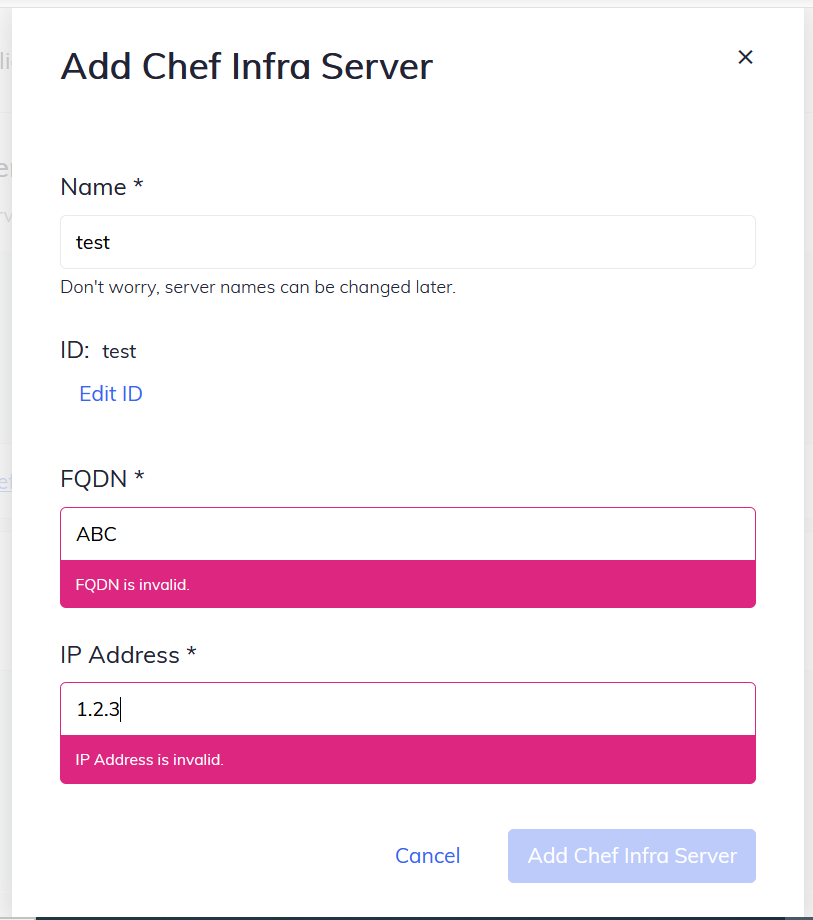
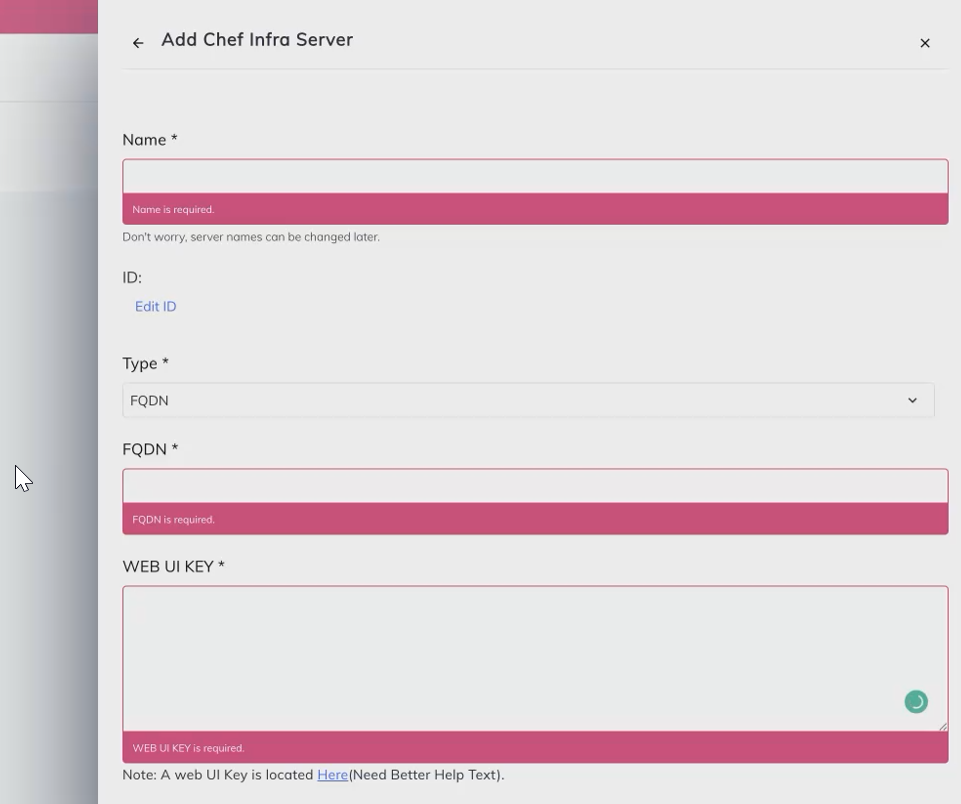
Chef Infra Server WebUI Key (#6841)
* added the section for WebUI in chef infra server

* removed the add organization section from the page

* fixed some minor issues in the page

* added the section for WebUI in chef infra server

* removed the add organization section from the page

* fixed some minor issues in the page

* updates the doc with webui section

* added images for the update webui key section

* bug fixes

* changes made to the webUI section

* updated the chef server information section

* Update components/docs-chef-io/content/automate/chef_infra_server.md

* Update components/docs-chef-io/content/automate/chef_infra_server.md

* review changes

* changes updated

diff --git a/components/docs-chef-io/content/automate/chef_infra_server.md b/components/docs-chef-io/content/automate/chef_infra_server.md
@@ -1,7 +1,6 @@
 +++
 title = "Chef Infra Server"
 
-weight = 20
 draft = false
 
 gh_repo = "automate"
@@ -36,35 +35,68 @@ The objects that you can manage from the Chef Infra Server are:
 - Policyfiles
 - PolicyGroup
 
+## Chef Automate WebUI Key
+
+Chef Automate uses the Web UI private key for signing requests sent to the Chef Infra Server. The key is subject to Chef server’s Secrets Management, and will be stored in `/etc/opscode/private-chef-secrets.json`.
+
+Any run of `chef-server-ctl` reconfigure will ensure the key exists and is stored without any additional steps.
+
+To verify that the key is stored and ready to use by manage, run:
+
+```cmd
+chef-server-ctl show-secret chef-server webui_key
+-----BEGIN RSA PRIVATE KEY-----
[2 lines of base64/hex data omitted]
+...
+-----END RSA PRIVATE KEY-----
+```
+
 ## Connect Chef Infra Servers to Chef Automate
 
 The _Chef Infra Server_ panel starts with an empty list of servers.
 
-To add existing Chef Infra Servers to the Chef Automate infrastructure, select **Add Chef Server**, which will request the name, FQDN, and IP address of your Chef Infra Server:
+To add existing Chef Infra Servers to the Chef Automate infrastructure, select **Add Chef Server**, which will request the name, FQDN or IP address, and WebUI key of your Chef Infra Server:
 
 {{< figure src="/images/automate/add-chef-server-popup-menu.png" width="500" alt="Add Chef Server Form">}}
 
-Chef Automate warns you if you enter an invalid FQDN or IP address:
+{{< note >}} The above feature is only available for Automate admin. {{< /note >}}
+
+Chef Automate warns you if you enter an invalid name, FQDN, IP address or WebUI key:
 
 {{< figure src="/images/automate/add-chef-server-popup-menu-with-error.png" width="500" alt="Add Chef Server Form">}}
 
 Once done, select **Add Chef Server** and see the server in the list of Chef Infra Servers.
 
-## Connect a Chef Organization to a Chef Infra Server
+### Chef Server Information
 
-To view a list of existing [organizations]({{< relref "server_orgs" >}}) on a Chef Infra Server,
-select a Chef Infra Server from the **Chef Servers** list, then select the **Organizations** tab, as shown below:
+In Chef Infra Server, you can view the details of the infra servers created. Select the created infra server, and the UI shows the information of the infra server.
 
-{{< figure src="/images/automate/chef-server-organization.png" alt="Chef Infra Server Organization">}}
+{{< figure src="/images/automate/chef-server-details-page.png" alt="Chef Infra Server Information Page">}}
 
-To create a new organization, see the documentation on [setting up a Chef Infra Server]({{< relref "infra_server#set-up-the-chef-infra-server" >}}).
+In the above image you can view:
 
-To add an existing organization, select **Add Chef Organization**, which opens a dialog box as shown below:
+1. The **FQDN** you inserted while creating.
+1. The **IP** address.
+1. The **WebUI** key.
+1. Last Sync Date.
+1. Last Migration Status.
 
-{{< figure src="/images/automate/add-chef-organization-popup-menu.png" width="500" alt="Add Chef Organization Form">}}
+You can also update the **WebUI** key by selecting the *Update* option of the WebUI key.
 
-Enter the _Name_, _Projects_, _Admin User_, and _Admin Key_ fields using the same values provided when the organization gets configured using _Knife_.
-Copy the contents of the `~/.chef/USER.pem` file and paste it into the **Admin Key** field. Then select **Add Chef Organization** to add the organization to the Chef Infra Server.
+### Update WebUI Key
+
+In case you have mentioned an incorrect WebUI key, you can update the same by following the steps:
+
+* Select **Update** in front of the WebUI key as shown below:
+
+  {{< figure src="/images/automate/chef-infra-server-update-webui-key-main-page.png" alt="Select Update for WebUI Key">}}
+
+* Update the correct WebUI key in the text box shown below:
+
+  {{< figure src="/images/automate/chef-infra-server-update-webui-key.png" alt="Select Update for WebUI Key">}}
+
+Follow the above two steps to update the WebUI key of the Chef Automate.
 
 ## Access Chef Infra Server Components
 
